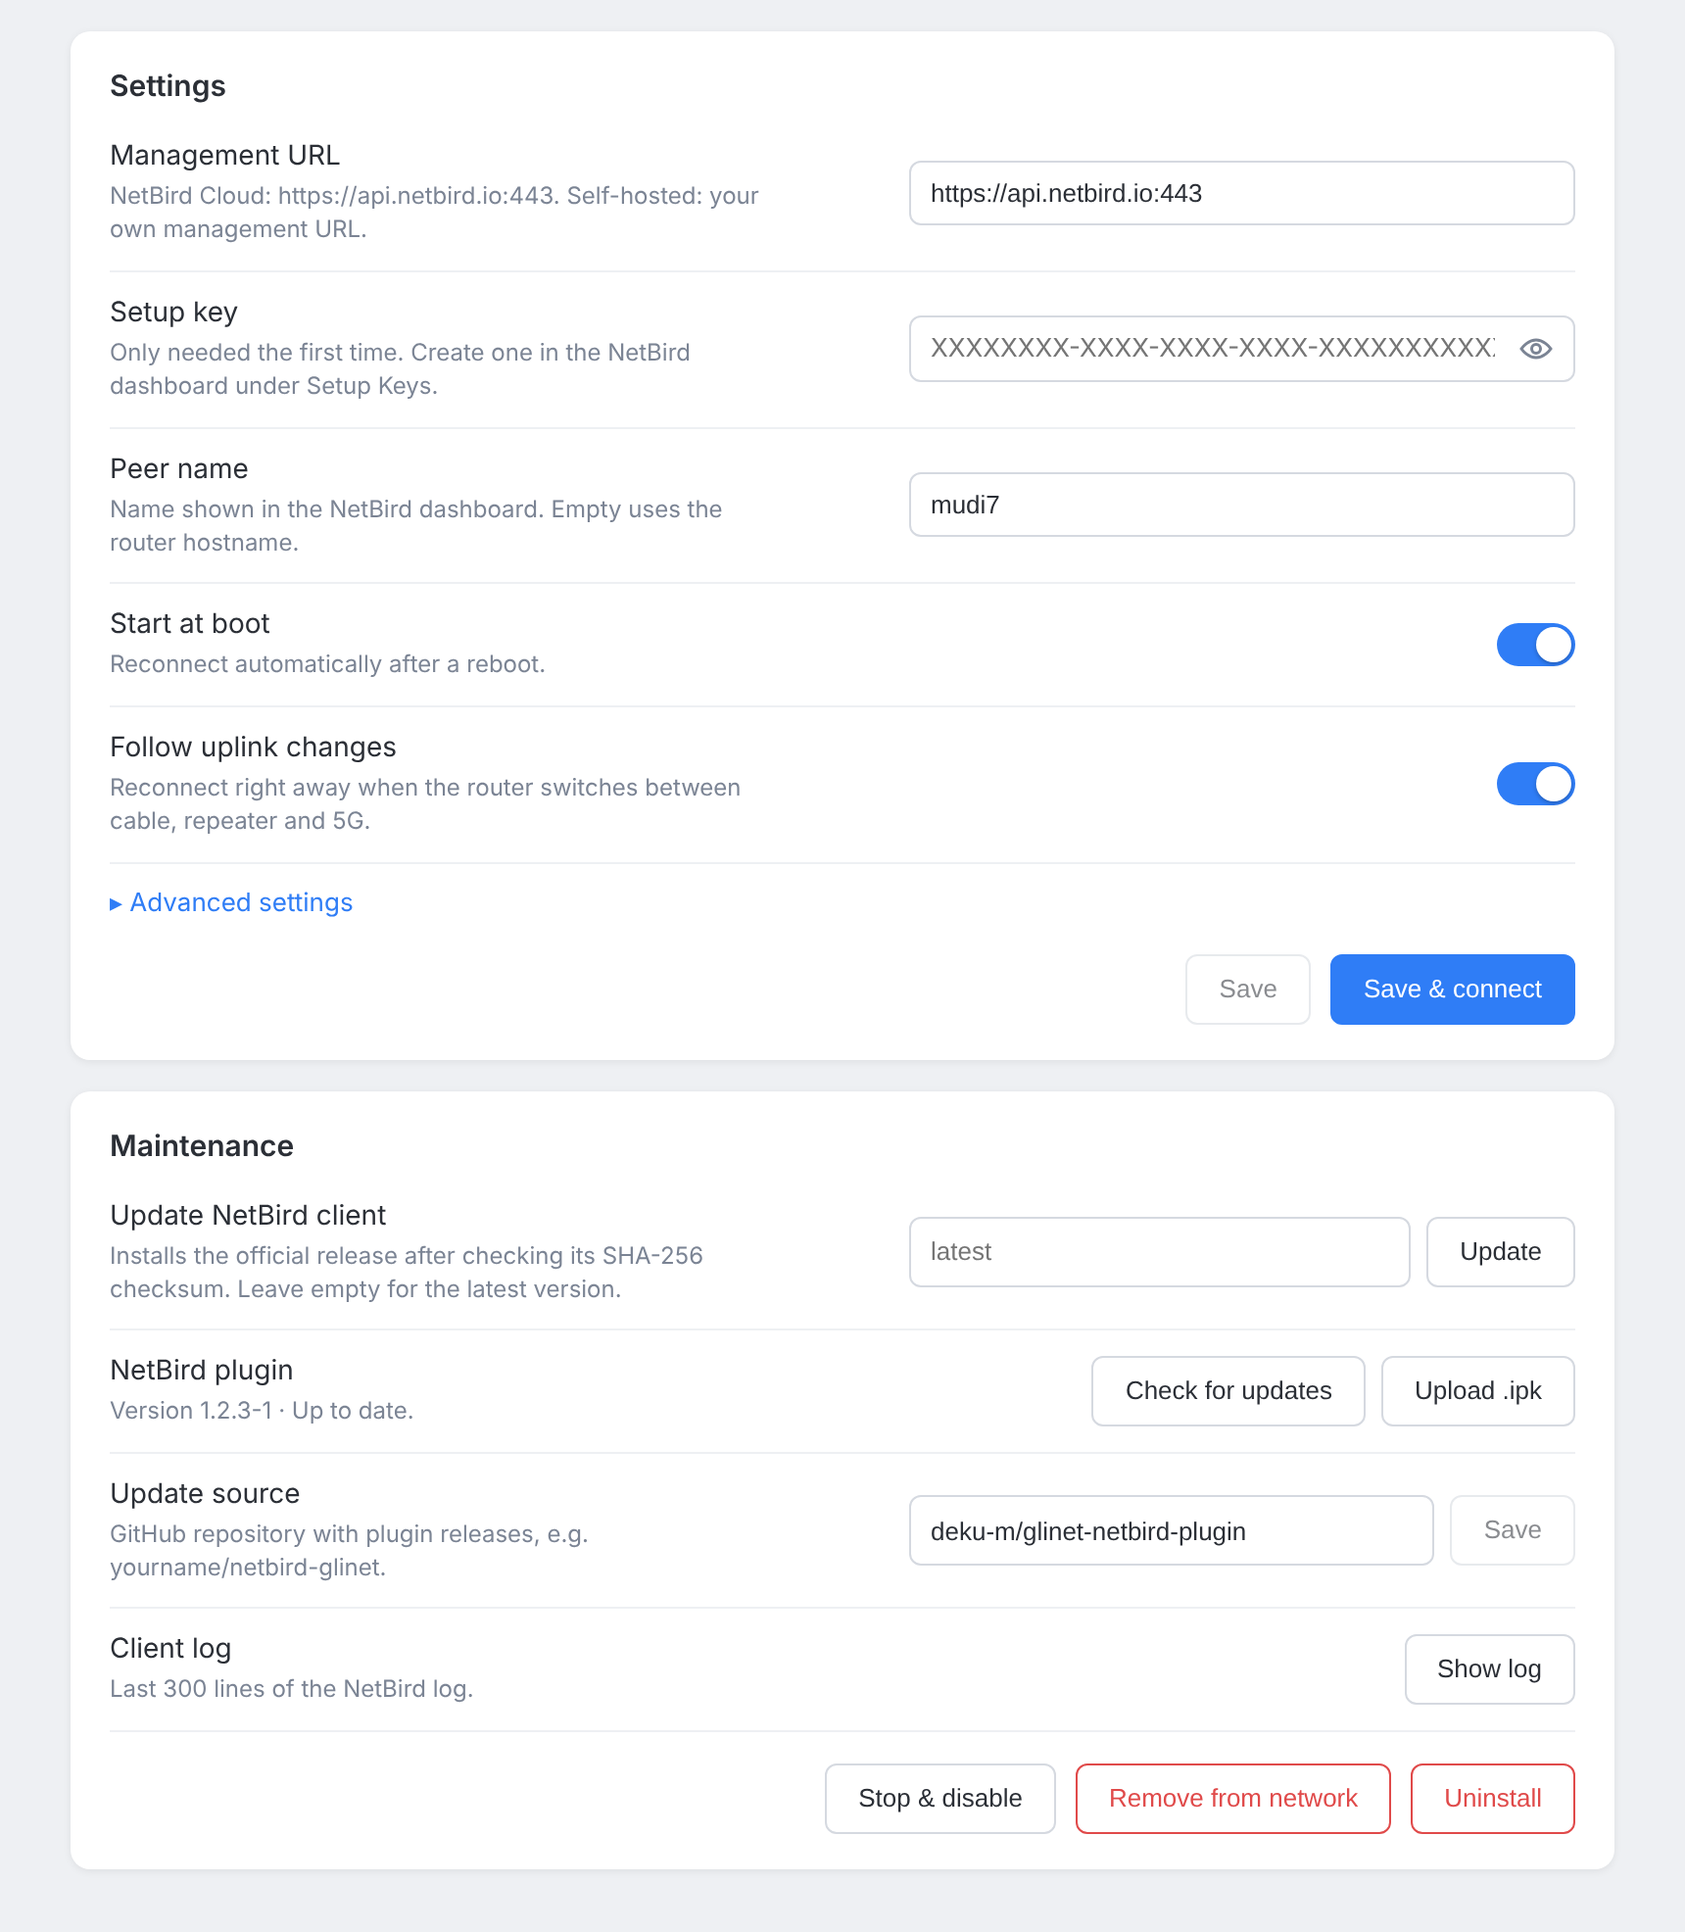
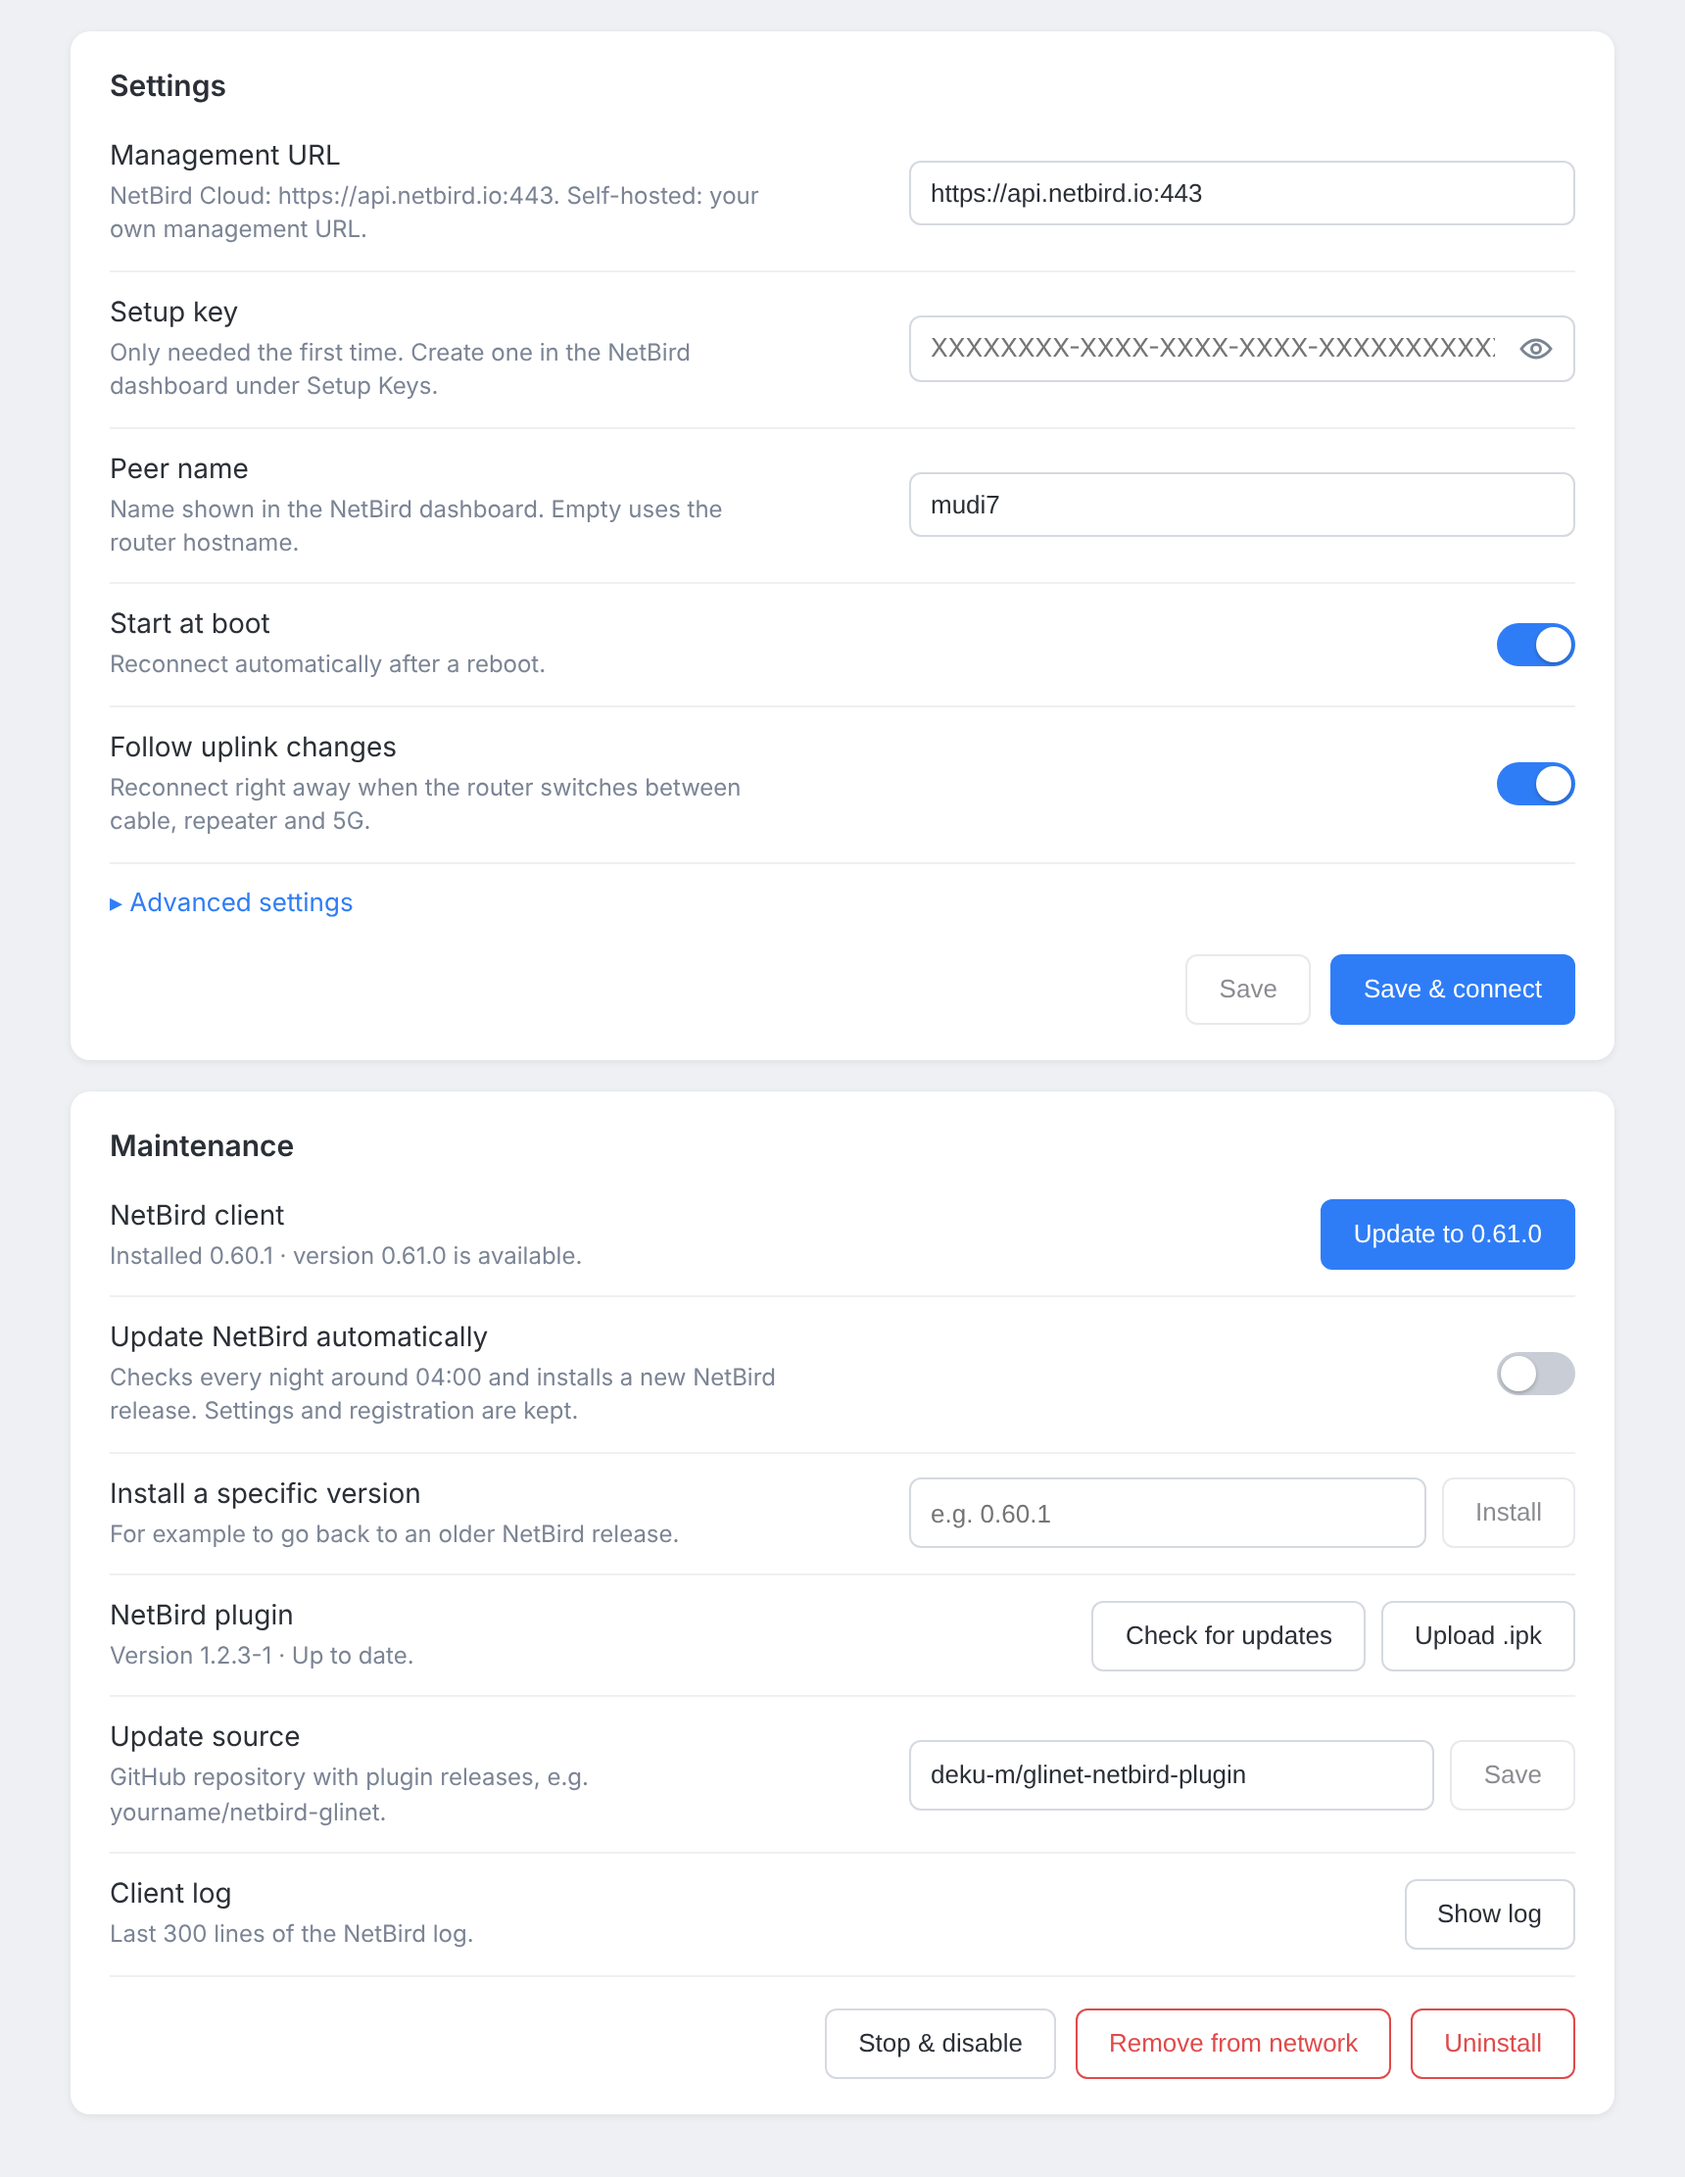
Show and install NetBird client updates, optionally every night
The Maintenance card now says when a newer NetBird release exists and
offers "Update to x.y.z". "Update NetBird automatically" adds a nightly
cron job that installs new releases; uninstall removes it. Installing a
specific version stays available for going back to an older release.

Claude-Session: https://claude.ai/code/session_01RLn4Lah6Ry2TiTJWnAVdww

diff --git a/luci-app-netbird/oui/gl-sdk4-ui-netbird.common.js b/luci-app-netbird/oui/gl-sdk4-ui-netbird.common.js
@@ -176,6 +176,8 @@ module.exports = (function () {
         showAdvanced: false,
         showKey: false,
         plugin: null,
+        client: null,
+        clientChecking: false,
         pluginChecking: false,
         repoInput: null,
         pluginUpdated: false,
@@ -199,6 +201,7 @@ module.exports = (function () {
     created: function () {
       this.refresh();
       this.checkPlugin();
+      this.checkClient();
       this.statusTimer = setInterval(this.refresh, 5000);
     },
 
@@ -281,6 +284,7 @@ module.exports = (function () {
               self.jobActive = false;
               var ok = /DONE\s*$/.test(j.log || '');
               var isPlugin = /^plugin_/.test(j.name || '');
+              if (j.name === 'install') self.checkClient();
               if (ok && isPlugin) { self.pluginUpdated = true; self.notice = null; }
               else self.say(ok ? 'success' : 'error', ok ? (j.name === 'install' ? 'NetBird installed.' : 'NetBird is connecting.') :
                 'The task failed, see the output below.');
@@ -336,6 +340,28 @@ module.exports = (function () {
           self.say('success', 'Settings saved. Press Connect to apply them to NetBird.');
           self.refresh();
         }).catch(function (e) { self.busy = false; self.say('error', errText(e)); });
+      },
+
+      checkClient: function (manual) {
+        var self = this;
+        self.clientChecking = true;
+        return rpc('client_check', manual ? { fresh: true } : {}).then(function (r) {
+          self.clientChecking = false;
+          self.client = r || {};
+          if (manual) {
+            if (r && r.error) self.say('error', r.error);
+            else if (r && !r.update_available) self.say('success', 'NetBird ' + (r.current || '') + ' is the latest version.');
+          }
+        }).catch(function (e) { self.clientChecking = false; if (manual) self.say('error', errText(e)); });
+      },
+
+      setAutoUpdate: function (v) {
+        var self = this;
+        self.client = Object.assign({}, self.client || {}, { autoupdate: v });
+        rpc('set_config', { client_autoupdate: v }).then(function (r) {
+          if (!r || r.ok === false) { self.say('error', (r && r.error) || 'Saving failed'); self.checkClient(); return; }
+          self.say('success', v ? 'NetBird will update itself every night when a new version is out.' : 'Automatic NetBird updates are off.');
+        }).catch(function (e) { self.say('error', errText(e)); self.checkClient(); });
       },
 
       checkPlugin: function (manual) {
@@ -724,11 +750,7 @@ module.exports = (function () {
         var self = this;
         return h('div', { style: CARD }, [
           cardTitle(h, 'Maintenance'),
-          field(h, 'Update NetBird client', 'Installs the official release after checking its SHA-256 checksum. Leave empty for the latest version.',
-            h('div', { style: { display: 'flex', gap: '8px', width: '100%', maxWidth: '340px' } }, [
-              input(h, self.version, function (v) { self.version = v; }, { placeholder: 'latest' }),
-              btn(h, 'Update', function () { self.startJob('install', { version: (self.version || 'latest').trim() }); }, 'plain', self.busy || self.jobActive)
-            ])),
+          self.rClient(h),
           self.rPlugin(h),
           field(h, 'Client log', 'Last 300 lines of the NetBird log.',
             btn(h, self.showLog ? 'Hide log' : 'Show log', self.toggleLog, 'plain')),
@@ -744,6 +766,31 @@ module.exports = (function () {
             btn(h, 'Uninstall', function () { self.confirmUninstall = true; }, 'danger', self.busy || self.jobActive || self.uninstalling)
           ]),
           self.confirmUninstall ? self.rUninstallConfirm(h) : null
+        ]);
+      },
+
+      rClient: function (h) {
+        var self = this, cl = self.client || {};
+        var busy = self.busy || self.jobActive || self.uninstalling;
+        var line;
+        if (self.clientChecking) line = 'Checking for a new NetBird version…';
+        else if (cl.update_available) line = 'Installed ' + cl.current + ' · version ' + cl.latest + ' is available.';
+        else if (cl.latest) line = 'Installed ' + (cl.current || '?') + ' · up to date.';
+        else line = cl.error || 'Official release, checked against its SHA-256 checksum.';
+        return h('div', {}, [
+          field(h, 'NetBird client', line,
+            h('div', { style: { display: 'flex', gap: '8px', flexWrap: 'wrap', justifyContent: 'flex-end' } }, [
+              cl.update_available
+                ? btn(h, 'Update to ' + cl.latest, function () { self.startJob('install', { version: cl.latest }); }, 'primary', busy)
+                : btn(h, 'Check for updates', function () { self.checkClient(true); }, 'plain', busy || self.clientChecking)
+            ])),
+          field(h, 'Update NetBird automatically', 'Checks every night around 04:00 and installs a new NetBird release. Settings and registration are kept.',
+            toggle(h, !!cl.autoupdate, self.setAutoUpdate, busy)),
+          field(h, 'Install a specific version', 'For example to go back to an older NetBird release.',
+            h('div', { style: { display: 'flex', gap: '8px', width: '100%', maxWidth: '340px' } }, [
+              input(h, self.version, function (v) { self.version = v; }, { placeholder: 'e.g. 0.60.1' }),
+              btn(h, 'Install', function () { self.startJob('install', { version: (self.version || 'latest').trim() }); }, 'plain', busy || !(self.version || '').trim())
+            ]))
         ]);
       },
 

diff --git a/README.md b/README.md
@@ -39,6 +39,9 @@ same package also adds pages to LuCI (VPN > NetBird).
   registration (`/etc/netbird`) across sysupgrade.
 - **Firewall zone** `netbird` (interface `wt0`) with optional LAN ↔ NetBird
   forwarding and masquerade.
+- **NetBird client updates**: shows when a new NetBird release is out and
+  installs it in one tap, or automatically every night. A specific version
+  (also an older one) can be installed too.
 - **Plugin updates** from this repository's releases, or by uploading an `.ipk`
   in the panel.
 - **Uninstall** in one tap, optionally removing the router from your NetBird
@@ -74,7 +77,9 @@ same package also adds pages to LuCI (VPN > NetBird).
 
 - **Update to x.y.z** appears when a newer release is published here.
 - **Upload .ipk** installs a downloaded package file directly.
-- **Update NetBird client** updates the NetBird client itself.
+- **NetBird client**: **Update to x.y.z** installs a new NetBird release. Turn
+  on **Update NetBird automatically** to do this every night around 04:00.
+  The NetBird client is updated on its own; no new plugin release is needed.
 
 Settings and the NetBird registration are kept on every update.
 
